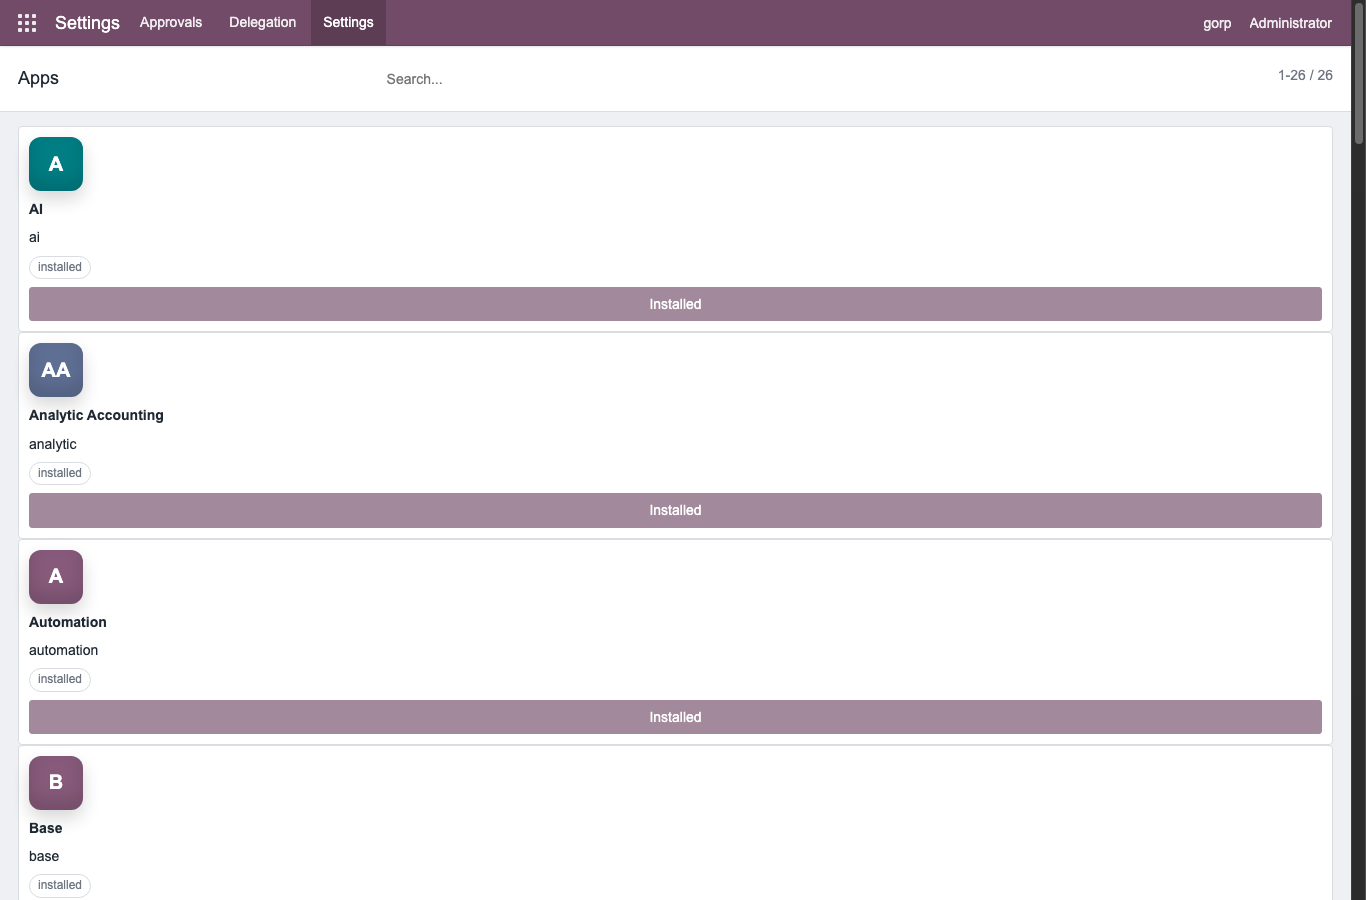
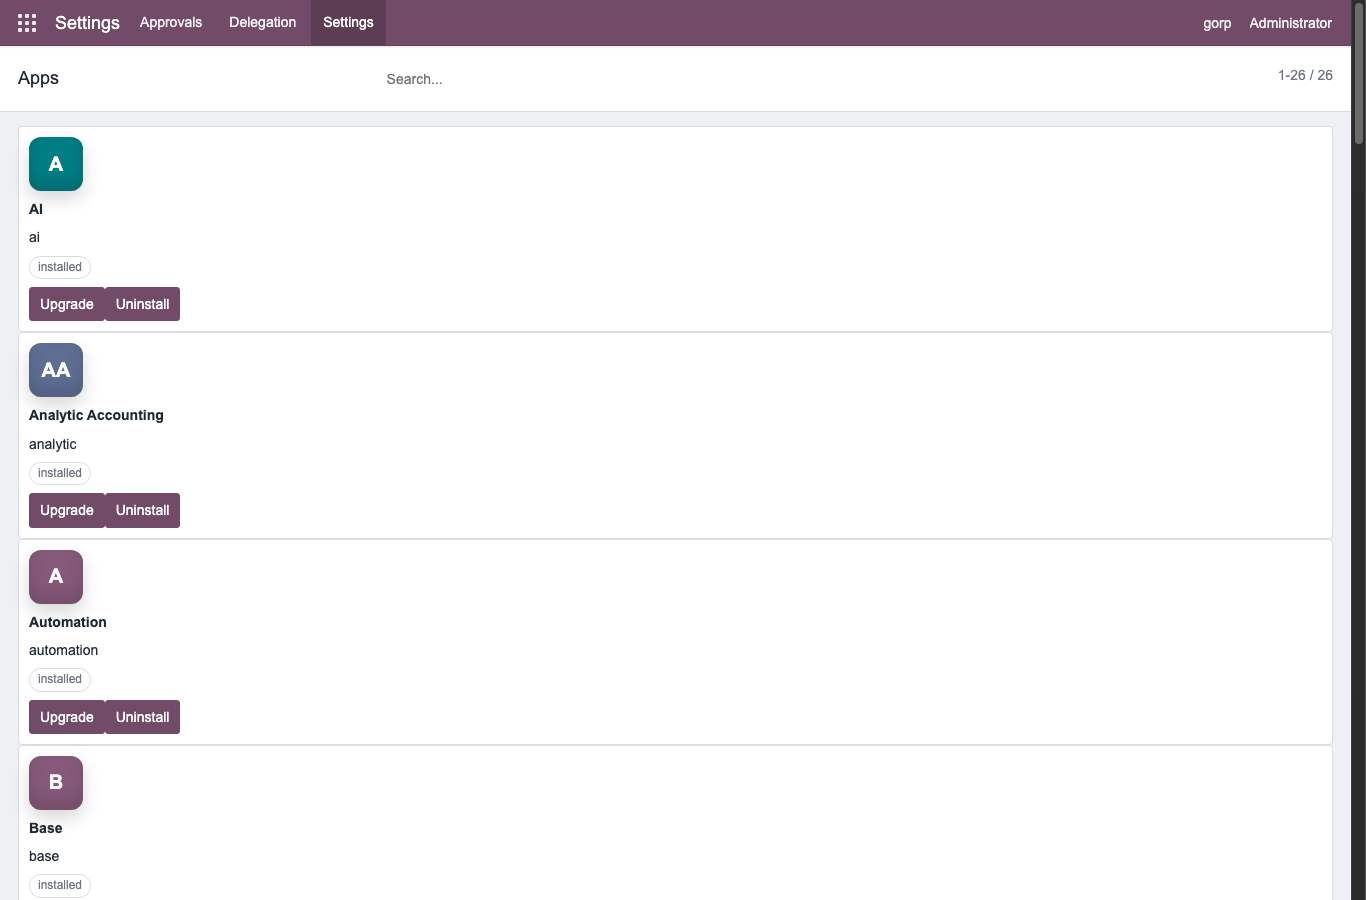
Strengthen Apps catalog lifecycle smoke

Changed region(s): [[0.0, 0.5289, 0.9839, 0.5911], [0.0, 0.3111, 0.9839, 0.3733], [0.0, 0.7778, 0.9839, 0.84]]

diff --git a/frontend/apps/webclient/src/main.ts b/frontend/apps/webclient/src/main.ts
@@ -402,7 +402,7 @@ export interface AppsCatalogPayload {
 
 export interface AppsCatalogRenderOptions {
   onInstall?: (technicalName: string) => unknown;
-  onModuleAction?: (technicalName: string, method: AppsCatalogActionMethod) => unknown;
+  onModuleAction?: (technicalName: string, method: AppsCatalogActionMethod, query: string) => unknown;
   query?: string;
   title?: string;
 }
@@ -464,7 +464,7 @@ export function renderAppsCatalogView(payload: AppsCatalogPayload, options: Apps
     grid.replaceChildren();
     const modules = appsCatalogModules(payload).filter((item) => !query || item.searchText.includes(query));
     for (const item of modules) {
-      grid.append(renderAppsCatalogCard(item, options));
+      grid.append(renderAppsCatalogCard(item, { ...options, query }));
     }
     if (!grid.children.length) {
       const empty = document.createElement("p");
@@ -487,15 +487,16 @@ interface AppsCatalogDisplayModule {
   technicalName: string;
 }
 
-async function renderAppsCatalog(_env: ReturnType<typeof makeEnv>, outlet: HTMLElement, title: string): Promise<void> {
+async function renderAppsCatalog(_env: ReturnType<typeof makeEnv>, outlet: HTMLElement, title: string, query = ""): Promise<void> {
   outlet.dataset.tsActionStatus = "loading";
   outlet.replaceChildren(renderActionLoading(title || "Apps"));
   const payload = await fetchJSON<AppsCatalogPayload>("/web/session/modules");
   const view = renderAppsCatalogView(payload, {
     title,
-    onModuleAction: async (technicalName, method) => {
+    query,
+    onModuleAction: async (technicalName, method, currentQuery) => {
       await runAppsCatalogModuleAction(technicalName, method);
-      await renderAppsCatalog(_env, outlet, title);
+      await renderAppsCatalog(_env, outlet, title, currentQuery);
     }
   });
   outlet.dataset.tsActionStatus = "ready";
@@ -576,7 +577,7 @@ function renderAppsCatalogCard(module: AppsCatalogDisplayModule, options: AppsCa
     button.addEventListener("click", async () => {
       button.disabled = true;
       button.textContent = action.runningLabel;
-      await actionHandler(module.technicalName, action.method);
+      await actionHandler(module.technicalName, action.method, options.query || "");
     });
     actions.append(button);
   }

diff --git a/reports/progress_dashboard.html b/reports/progress_dashboard.html
@@ -293,7 +293,7 @@
         <p class="sub">Tracks build progress from audit backlog, parity coverage, source inventory, and OI inventory.</p>
       </div>
       <div class="meta">
-        <span>Generated: 2026-06-21T17:25:14Z</span>
+        <span>Generated: 2026-06-21T17:28:49Z</span>
         <span>Refresh: <code>go run ./tools/progress_dashboard --out reports/progress_dashboard.html</code></span>
       </div>
     </div>
@@ -407,8 +407,8 @@
 
             <tr>
               <td class="numeric">#1</td>
-              <td>added bounded default TypeScript Apps catalog install parity while keeping accounting deferred to phase 2</td>
-              <td><span class="badge plain">not recorded</span></td>
+              <td>added bounded default TypeScript Apps catalog lifecycle parity while keeping accounting deferred to phase 2</td>
+              <td><span class="badge good">full CI passed</span></td>
               <td><code>line 5</code></td>
             </tr>
 
@@ -513,10 +513,10 @@
           </thead>
           <tbody>
 
-            <tr class="slice-row" data-search="1 added bounded default TypeScript Apps catalog install parity while keeping accounting deferred to phase 2 added bounded default TypeScript Apps catalog install parity while keeping accounting deferred to phase 2. The default `/web` Apps entry now opens `gorp-apps-catalog`, loads `/web/session/modules`, renders Odoo-shaped module cards, and installs through `button_immediate_install`; visual smoke forces `ai` to `uninstalled` and verifies it returns to `installed`. Focused frontend tests, smoke inventory tests, frontend build, and full local visual smoke passed 20/20. Remaining gaps: full `make ci`, upgrade/uninstall/cancel UI, Apps categories/filters/detail pages, deeper action/list/form parity, dialogs, systray, and mobile action-flow parity. not recorded line 5">
+            <tr class="slice-row" data-search="1 added bounded default TypeScript Apps catalog lifecycle parity while keeping accounting deferred to phase 2 added bounded default TypeScript Apps catalog lifecycle parity while keeping accounting deferred to phase 2. The default `/web` Apps entry now opens `gorp-apps-catalog`, loads `/web/session/modules`, renders Odoo-shaped module cards, and runs install, upgrade, uninstall, and restore through `ir.module.module` button methods; visual smoke forces `ai` to `uninstalled`, restores it to `installed`, verifies upgrade stays installed, verifies uninstall returns to `uninstalled`, and restores install state again. Focused frontend tests, smoke inventory tests, frontend build, full local visual smoke passed 20/20, and `make ci` passed. Remaining gaps: cancel-state UI smoke, Apps categories/filters/detail pages, deeper action/list/form parity, dialogs, systray, and mobile action-flow parity. full CI passed line 5">
               <td class="numeric">#1</td>
-              <td>added bounded default TypeScript Apps catalog install parity while keeping accounting deferred to phase 2. The default `/web` Apps entry now opens `gorp-apps-catalog`, loads `/web/session/modules`, renders Odoo-shaped module cards, and installs through `button_immediate_install`; visual smoke forces `ai` to `uninstalled` and verifies it returns to `installed`. Focused frontend tests, smoke inventory tests, frontend build, and full local visual smoke passed 20/20. Remaining gaps: full `make ci`, upgrade/uninstall/cancel UI, Apps categories/filters/detail pages, deeper action/list/form parity, dialogs, systray, and mobile action-flow parity.</td>
-              <td><span class="badge plain">not recorded</span></td>
+              <td>added bounded default TypeScript Apps catalog lifecycle parity while keeping accounting deferred to phase 2. The default `/web` Apps entry now opens `gorp-apps-catalog`, loads `/web/session/modules`, renders Odoo-shaped module cards, and runs install, upgrade, uninstall, and restore through `ir.module.module` button methods; visual smoke forces `ai` to `uninstalled`, restores it to `installed`, verifies upgrade stays installed, verifies uninstall returns to `uninstalled`, and restores install state again. Focused frontend tests, smoke inventory tests, frontend build, full local visual smoke passed 20/20, and `make ci` passed. Remaining gaps: cancel-state UI smoke, Apps categories/filters/detail pages, deeper action/list/form parity, dialogs, systray, and mobile action-flow parity.</td>
+              <td><span class="badge good">full CI passed</span></td>
               <td><code>line 5</code></td>
             </tr>
 

diff --git a/reports/uiux/ui_parity_master_20260621_final.md b/reports/uiux/ui_parity_master_20260621_final.md
@@ -48,7 +48,7 @@ Existing Odoo screenshots were used as visual reference:
 - Normal internal users created in `res.users` can authenticate without restarting the server, and their hydrated security context carries company, partner, and group metadata.
 - The app launcher no longer exposes the Apps catalog unless the authenticated menu payload includes an accessible Apps menu.
 - Normal-user visual smoke now proves Approvals is visible while Apps, Delegation, Settings, and Technical are hidden.
-- The default TypeScript `/web` Apps catalog now renders an Odoo-shaped module catalog from `/web/session/modules` and installs modules through `button_immediate_install`.
+- The default TypeScript `/web` Apps catalog now renders an Odoo-shaped module catalog from `/web/session/modules`, preserves the active catalog search across lifecycle actions, and covers install, upgrade, uninstall, and restore smoke for the `ai` module.
 
 ## Evidence
 
@@ -56,6 +56,7 @@ Local app:
 - URL: `http://127.0.0.1:8069/web`
 - Visual smoke: 20/20 passed.
 - Manifest: `reports/uiux/ui_parity_master_20260621_live/manifest.json`
+- Apps lifecycle manifest: `reports/uiux/ui_parity_master_20260621_live_apps_lifecycle/manifest.json`
 
 Key screenshots:
 - `reports/uiux/ui_parity_master_20260621_live/default-webclient-takeover.png`
@@ -79,7 +80,7 @@ P0:
 - Form renderer lacks full arch layout support: groups, notebooks, smart buttons, relation widgets, onchange, x2many editors, modifiers, and dirty guards.
 
 P1:
-- Apps install flow has bounded method-backed install smoke coverage; it still needs Odoo-like categories, filters, module detail cards, upgrade UI, uninstall UI, cancel flows, and upgrade/uninstall smoke.
+- Apps install flow has bounded method-backed install, upgrade, uninstall, and restore smoke coverage; it still needs Odoo-like categories, filters, module detail cards, and cancel flows.
 - Dialogs need footer action mapping, stacked inactive state, confirmation dialogs, backdrop policy, draggable desktop, and mobile fullscreen/bottom-sheet behavior.
 - Systray is mostly static: user/company/debug/mail/activity dropdowns are not behaviorally complete.
 - Kanban needs grouped columns, quick create, drag/drop, folded groups, progress bars, and load-more.
@@ -88,7 +89,7 @@ P1:
 P2:
 - Pivot, graph, calendar, activity, cohort, gantt, and dashboard views are not implemented.
 - OWL compatibility exports are still shallow for many field widgets/services.
-- Visual regression suite still needs apps install, systray dropdown, dialog, and mobile action-flow scenarios.
+- Visual regression suite still needs systray dropdown, dialog, cancel-state Apps lifecycle, and mobile action-flow scenarios.
 
 ## Bounded Implementation Tasks
 
@@ -96,7 +97,7 @@ P2:
 2. Implement search autocomplete, custom filters/groups, and saved filter persistence.
 3. Implement list grouping/sorting/optional-columns/select-all.
 4. Implement form notebooks/groups/smart-buttons/x2many/onchange/dirty guards.
-5. Expand Apps catalog to upgrade/uninstall/cancel flows, categories, filters, and module detail behavior.
+5. Expand Apps catalog to cancel-state flows, categories, filters, and module detail behavior.
 6. Implement systray dropdown services for user/company/debug/mail/activity.
 7. Implement kanban grouped columns and quick-create.
 8. Add production smoke after every deploy for `/web`, Settings, Server Actions, view switch, search filter, normal user, and mobile.

diff --git a/reports/agent_audit_backlog.md b/reports/agent_audit_backlog.md
@@ -2,7 +2,7 @@
 
 Generated from parallel AI, accounting, and web/theme audits on 2026-06-16.
 
-- DONE this slice: added bounded default TypeScript Apps catalog install parity while keeping accounting deferred to phase 2. The default `/web` Apps entry now opens `gorp-apps-catalog`, loads `/web/session/modules`, renders Odoo-shaped module cards, and installs through `button_immediate_install`; visual smoke forces `ai` to `uninstalled` and verifies it returns to `installed`. Focused frontend tests, smoke inventory tests, frontend build, and full local visual smoke passed 20/20. Remaining gaps: full `make ci`, upgrade/uninstall/cancel UI, Apps categories/filters/detail pages, deeper action/list/form parity, dialogs, systray, and mobile action-flow parity.
+- DONE this slice: added bounded default TypeScript Apps catalog lifecycle parity while keeping accounting deferred to phase 2. The default `/web` Apps entry now opens `gorp-apps-catalog`, loads `/web/session/modules`, renders Odoo-shaped module cards, and runs install, upgrade, uninstall, and restore through `ir.module.module` button methods; visual smoke forces `ai` to `uninstalled`, restores it to `installed`, verifies upgrade stays installed, verifies uninstall returns to `uninstalled`, and restores install state again. Focused frontend tests, smoke inventory tests, frontend build, full local visual smoke passed 20/20, and `make ci` passed. Remaining gaps: cancel-state UI smoke, Apps categories/filters/detail pages, deeper action/list/form parity, dialogs, systray, and mobile action-flow parity.
 - DONE this slice: advanced non-accounting `ir.module.module` lifecycle parity while keeping accounting deferred to phase 2. Module install now preflights dependency closure before writing state, auto-install modules are queued or installed when trigger dependencies become active, exclusions block conflicting installs, uninstall rejects inactive states and active dependents, upgrade/cancel transitions are state-guarded, and `/web/session/modules` reports missing manifest rows as uninstalled. Runtime bootstrap now persists `ir.module.module.dependency` rows from manifests with `auto_install_required` metadata, the base model and migrations expose that field, and legacy Apps install calls `button_immediate_install` instead of directly writing module state. Focused base, migrate, lifecycle, runtime, HTTP, and shell tests passed. Remaining gaps: full install/update/uninstall data loading and cleanup pipeline, external dependency checks, uninstall wizards, registry/asset/security refresh after live lifecycle calls, and full `make ci`.
 - DONE this slice: added normal internal-user `/web` parity coverage while keeping accounting deferred to phase 2. Runtime `res.users` records can now authenticate through `/web/session/authenticate` and hydrate the security user map with company, partner, and group metadata. The TypeScript and legacy launchers now show the Apps catalog only when the authenticated menu payload includes an accessible Apps menu, preventing base users from seeing install/apps entry points. Visual smoke now includes `normal-user-launcher-desktop`, proving Approvals opens as `approval.buttons` and Apps, Delegation, Settings, and Technical stay hidden. Focused HTTP auth tests, frontend shell/home-menu tests, smoke inventory tests, frontend build, and full local visual smoke passed 19/19. Remaining gaps: full `make ci`, apps install lifecycle, systray dropdowns, dialog lifecycle, mobile action-flow smoke, and deeper Odoo action/list/form parity.
 - DONE this slice: wired default TypeScript `/web` control-panel interactions for real action execution while keeping accounting deferred to phase 2. Search filter, group-by, favorite, and facet-remove menu actions now carry parsed/fallback search facet payloads, rerun the current action through the action service with explicit `__search_facets`, and feed `web_search_read` with updated domains, contexts, and group-bys. View switch buttons now rerun the current action with reordered sibling views, update `view_type`, and clear stale `res_id` when switching back to non-form views. Focused frontend regressions cover filter toggle-off, group-by activation, explicit grouped `web_search_read`, form/list/kanban switch payloads, and kanban route serialization. Visual smoke now covers default TS Server Actions filter click and list/form/list view switching; full local smoke passed 18/18 and `make ci` passed. Remaining gaps: persist search state in route hashes, live text search requery, custom filter/group dialogs, saved `ir.filters` writes, deeper breadcrumb action-stack parity, full form/list renderer parity, dialogs, apps install workflow, systray dropdowns, and mobile-specific search controls.